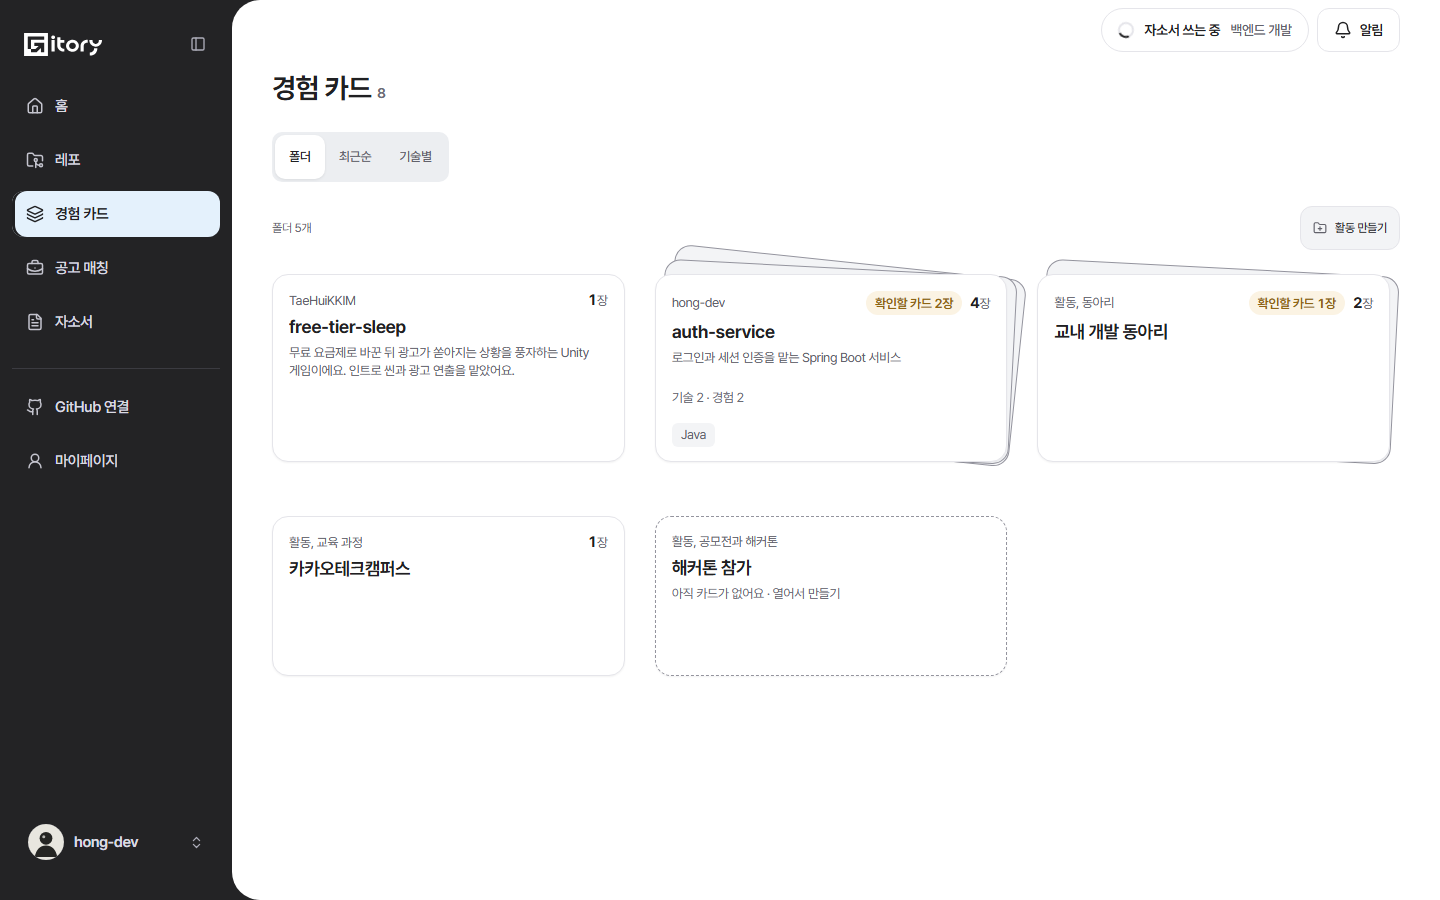
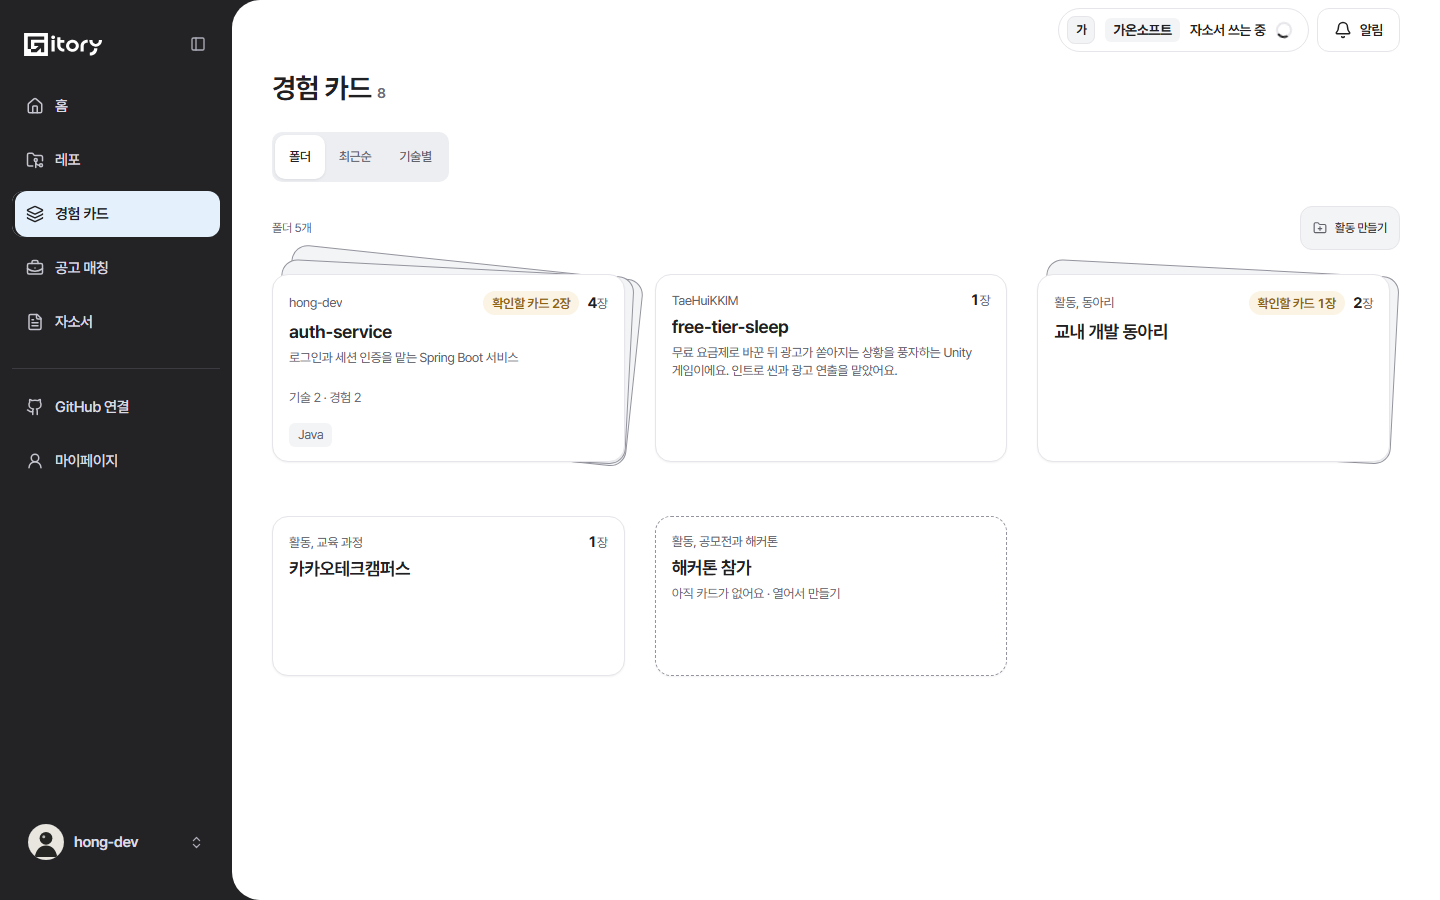
feat(frontend): 자소서 진행 표시에 회사 마크와 회사 이름을 앞에 둠

Changed region(s): [[0.1875, 0.28, 0.6875, 0.4978], [0.75, 0.0, 0.9062, 0.0622], [0.4062, 0.4978, 0.4375, 0.5289]]

diff --git a/frontend/src/test/notice-center.test.tsx b/frontend/src/test/notice-center.test.tsx
@@ -428,7 +428,7 @@ describe('자소서 진행 표시', () => {
     for (const stage of ['ASSIGNING', 'ASKING', 'DRAFTING']) {
       serve([row(stage, { jobRole: `역할-${stage}` })]);
       mountWatched();
-      const pill = await screen.findByRole('link', { name: `자소서 쓰는 중 가온소프트 · 역할-${stage}` });
+      const pill = await screen.findByRole('link', { name: '가온소프트 자소서 쓰는 중' });
       expect(pill).toHaveTextContent('자소서 쓰는 중');
       expect(pill).toHaveAttribute('href', '/cover-letters/cl_1');
       cleanup(); queryClient.clear();
@@ -439,15 +439,30 @@ describe('자소서 진행 표시', () => {
     expect(screen.queryByRole('link', { name: /자소서 쓰는 중/ })).not.toBeInTheDocument();
   });
 
+  it('C6 공고가 있는 자소서는 회사 마크와 옅은 바탕의 회사 이름을 앞에 두고 공고가 없으면 직무를 둔다', async () => {
+    serve([row('DRAFTING')]);
+    mountWatched();
+    const marked = await screen.findByRole('link', { name: '가온소프트 자소서 쓰는 중' });
+    expect(marked.querySelector('.company-mark')).not.toBeNull();
+    expect(marked.querySelector('.notice-pill__who')).toHaveTextContent('가온소프트');
+    expect(marked.firstElementChild).toBe(marked.querySelector('.company-mark'));
+    cleanup(); queryClient.clear();
+    serve([row('DRAFTING', { posting: null, jobRole: '백엔드 개발' })]);
+    mountWatched();
+    const plain = await screen.findByRole('link', { name: '백엔드 개발 자소서 쓰는 중' });
+    expect(plain.querySelector('.company-mark')).toBeNull();
+    expect(plain.querySelector('.notice-pill__who')).toHaveTextContent('백엔드 개발');
+  });
+
   it('C2 레포 작업이 있으면 그 작업을 보이고 나머지와 자소서를 합쳐 외 n개로 세며 작업이 없으면 가장 먼저 바뀐 자소서를 보인다', async () => {
-    serve([row('DRAFTING', { id: 'cl_new', jobRole: '늦은', updatedAt: minutesAgo(1) }), row('ASKING', { id: 'cl_old', jobRole: '이른', updatedAt: minutesAgo(9) })]);
+    serve([row('DRAFTING', { id: 'cl_new', posting: { id: 'p2', company: '늦은소프트', title: '서버' }, updatedAt: minutesAgo(1) }), row('ASKING', { id: 'cl_old', posting: { id: 'p3', company: '이른소프트', title: '서버' }, updatedAt: minutesAgo(9) })]);
     mountWatched('/cards', [live({ jobId: 'b', startedAt: '2026-11-06T02:00:00Z' }), live()]);
     const pill = await screen.findByRole('link', { name: /레포 읽는 중/ });
     await waitFor(() => expect(pill).toHaveTextContent('외 3개'));
     cleanup(); queryClient.clear();
     mountWatched();
     const letter = await screen.findByRole('link', { name: /자소서 쓰는 중/ });
-    expect(letter).toHaveAccessibleName('자소서 쓰는 중 가온소프트 · 이른 외 1개');
+    expect(letter).toHaveAccessibleName('이른소프트 자소서 쓰는 중 외 1개');
     expect(letter).toHaveTextContent('외 1개');
   });
 

diff --git a/frontend/src/components/layout/NoticeBar.tsx b/frontend/src/components/layout/NoticeBar.tsx
@@ -2,11 +2,12 @@ import { useEffect, useId, useRef, useState } from 'react';
 import { Link, useLocation, useNavigate } from 'react-router-dom';
 import { Bell } from 'lucide-react';
 import { isCoverLetterRunning, useRunningCoverLetters, type CoverLetterSummary } from '@/api/coverLetters';
+import { useMatch } from '@/api/matching';
 import { unreadCount, useNotices, useReadAllNotices, useReadNotice } from '@/api/notifications';
 import type { ActiveJob } from '@/api/schemas';
 import { canAskPermission, markPermissionAsked, requestPermission } from '@/lib/browserNotice';
+import { CompanyMark } from '@/features/match/CompanyMark';
 import { activeJobLink } from '@/lib/jobLinks';
-import { letterTitle } from '@/lib/homeModel';
 import { noticeView, shortRepoName, type NoticeView } from '@/lib/notices';
 import './notice-bar.css';
 
@@ -50,6 +51,10 @@ export function NoticeBar({ jobs }: { jobs: readonly ActiveJob[] | undefined }) 
     .flatMap((notice) => noticeView(notice, { now }) ?? []);
   const runningLetters = useRunningCoverLetters();
   const { first, more } = pickProgress(jobs, runningLetters.data);
+  // 자소서 목록에는 로고가 없어 진행 표시에 오른 자소서의 공고만 한 번 더 읽는다
+  const letter = first?.kind === 'letter' ? first.letter : null;
+  const letterPosting = useMatch(letter?.posting?.id ?? '');
+  const letterWho = letter ? letter.posting?.company ?? letter.jobRole : '';
   const askPermission = !!first && !open && !asked && canAskPermission();
 
   useEffect(() => { setOpen(false); }, [pathname]);
@@ -86,11 +91,13 @@ export function NoticeBar({ jobs }: { jobs: readonly ActiveJob[] | undefined }) 
           {more > 0 && <small className="notice-pill__more">외 {more}개</small>}
         </Link>
       )}
-      {first?.kind === 'letter' && (
-        <Link to={`/cover-letters/${encodeURIComponent(first.letter.id)}`} className="notice-pill" aria-label={`${LETTER_WHAT} ${letterTitle(first.letter)}${more ? ` 외 ${more}개` : ''}`}>
-          <span className="notice-pill__spin" aria-hidden />
+      {letter && (
+        <Link to={`/cover-letters/${encodeURIComponent(letter.id)}`} className={`notice-pill${letter.posting ? ' notice-pill--marked' : ''}`}
+          aria-label={`${letterWho} ${LETTER_WHAT}${more ? ` 외 ${more}개` : ''}`}>
+          {letter.posting && <CompanyMark name={letter.posting.company} logoUrl={letterPosting.data?.logoUrl} size={28} className="notice-pill__mark" />}
+          <span className="notice-pill__who">{letterWho}</span>
           <span className="notice-pill__what">{LETTER_WHAT}</span>
-          <small className="notice-pill__repo">{letterTitle(first.letter)}</small>
+          <span className="notice-pill__spin" aria-hidden />
           {more > 0 && <small className="notice-pill__more">외 {more}개</small>}
         </Link>
       )}

diff --git a/frontend/src/components/layout/notice-bar.css b/frontend/src/components/layout/notice-bar.css
@@ -10,6 +10,11 @@
 .notice-pill small { min-width: 0; overflow: hidden; text-overflow: ellipsis; white-space: nowrap; font-size: 14px; font-weight: 500; color: var(--text-secondary); }
 .notice-pill__more { flex: none; }
 .notice-pill__repo { max-width: 180px; }
+/* 자소서 — 회사 마크와 옅은 바탕의 회사 이름을 앞에 두어 어느 회사 자소서인지 먼저 읽힌다 */
+.notice-pill--marked { padding-left: 8px; }
+.notice-pill__mark { flex: none; }
+.notice-pill__who { min-width: 0; max-width: 160px; overflow: hidden; text-overflow: ellipsis; white-space: nowrap; padding: 2px 8px; border-radius: 6px; background: var(--bg-subtle); color: var(--text-primary); font-weight: 700; }
+.notice-pill:hover .notice-pill__who { background: var(--bg-inset); }
 
 .notice-bell { position: relative; display: inline-flex; align-items: center; gap: 8px; flex: none; min-height: var(--control-touch-size); padding: 0 16px; border: 1px solid var(--border-default); border-radius: 12px; background: var(--bg-surface); color: var(--text-primary); font-size: 14px; font-weight: 600; }
 .notice-bell:hover, .notice-bell[aria-expanded="true"] { background: var(--bg-subtle); }
@@ -55,7 +60,7 @@
 @media (max-width: 767px) {
   .notice-bar { position: static; margin-left: auto; margin-right: 4px; gap: 6px; }
   .notice-pill { padding: 0 12px; gap: 8px; }
-  .notice-pill__repo, .notice-pill__more { display: none; }
+  .notice-pill__repo, .notice-pill__more, .notice-pill__who { display: none; }
   .notice-bell { padding: 0; width: var(--control-touch-size); justify-content: center; }
   .notice-bell__text { display: none; }
   .notice-bell__count { position: absolute; top: 2px; right: 0; min-width: 20px; padding: 0 5px; font-size: 13px; line-height: 20px; box-shadow: 0 0 0 2px var(--bg-surface); }

diff --git a/frontend/e2e/cover-letter-progress.spec.ts b/frontend/e2e/cover-letter-progress.spec.ts
@@ -14,7 +14,9 @@ const call = (page: Page, method: string, path: string, body?: unknown) =>
   }, [method, path, body] as const);
 
 async function startDrafting(page: Page) {
-  const made = await call(page, 'POST', '/cover-letters', { jobRole: '백엔드 개발', memo: null, strengths: [], questions: [{ text: '지원 동기를 적어 주세요', charLimit: null }], postingId: null });
+  // 공고를 골라 만든 자소서라야 진행 표시에 회사 마크와 회사 이름이 보인다
+  const postings = await page.evaluate(async () => (await (await fetch('/api/matches')).json()).data as { id: string }[]);
+  const made = await call(page, 'POST', '/cover-letters', { jobRole: '백엔드 개발', memo: null, strengths: [], questions: [{ text: '지원 동기를 적어 주세요', charLimit: null }], postingId: postings[0]?.id ?? null });
   await expect.poll(async () => (await call(page, 'GET', `/cover-letters/${made.id}`)).stage, { timeout: 15_000 }).toBe('ASSIGNED');
   await call(page, 'POST', `/cover-letters/${made.id}/asks`);
   await expect.poll(async () => (await call(page, 'GET', `/cover-letters/${made.id}`)).stage, { timeout: 15_000 }).toBe('ASKED');
@@ -30,9 +32,10 @@ for (const [name, width, height] of [['pc-1440', 1440, 900], ['phone-390', 390, 
     const id = await startDrafting(page);
     await page.goto('/cards');
 
-    const pill = page.getByRole('link', { name: /^자소서 쓰는 중 / });
+    const pill = page.getByRole('link', { name: / 자소서 쓰는 중$/ });
     await expect(pill).toBeVisible();
     await expect(pill).toHaveAttribute('href', `/cover-letters/${id}`);
+    await expect(page.getByRole('heading', { level: 1, name: /경험 카드/ })).toBeVisible();
     await page.screenshot({ path: `${SHOTS}/${name}.png` });
 
     await pill.click();
